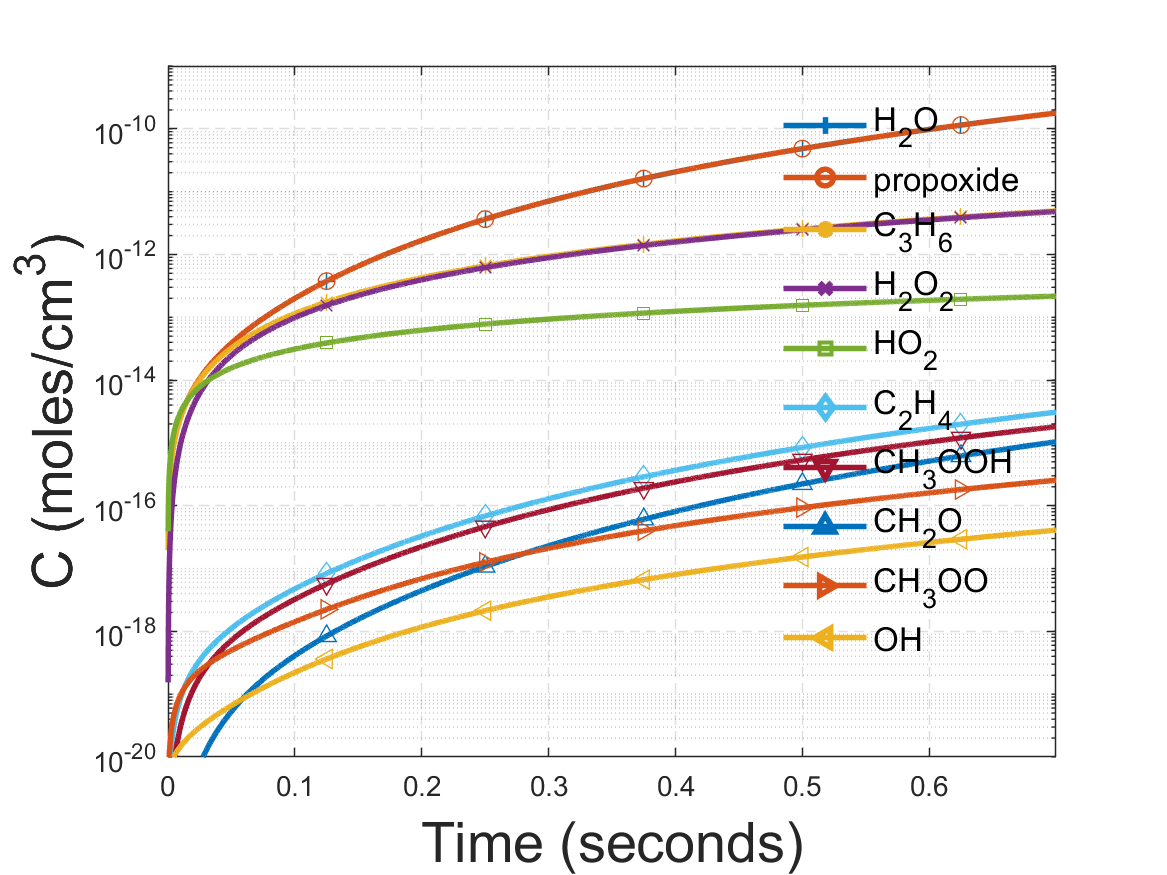
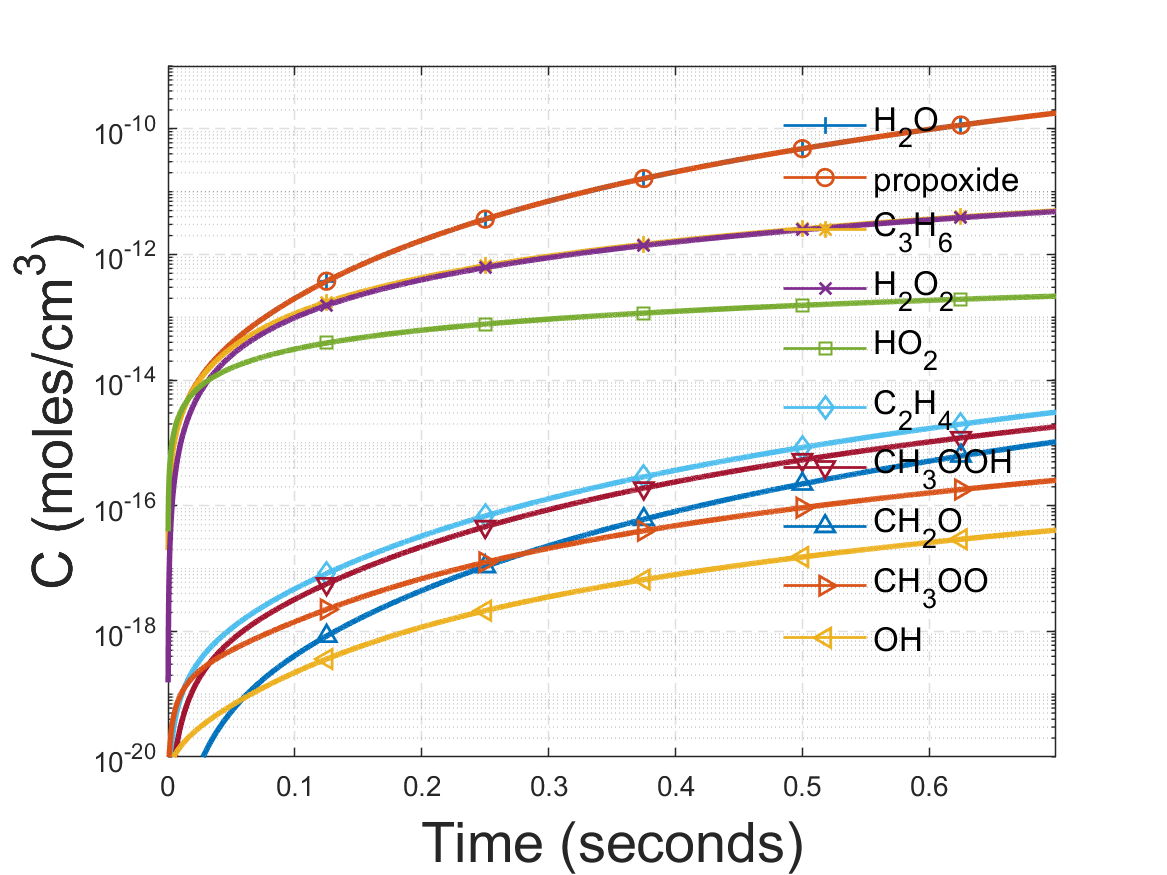
minor

diff --git a/theory/misc/trajectory/constant_volume_temperature/trajectory_cv_ct_top_N.m b/theory/misc/trajectory/constant_volume_temperature/trajectory_cv_ct_top_N.m
@@ -103,10 +103,11 @@ for idx=1:N
         'color', colors(mod(color_idx-1, length(colors))+ 1, :), ...
         'HandleVisibility','off'); hold on;
     scatter(time_vec(1:delta_n:end), conc_mat(1:delta_n:end, spe_idx), ...
+    'LineWidth', 1, ...
     'MarkerEdgeColor', colors(mod(color_idx-1, length(colors))+ 1, :), ...
     'marker', markers{1, mod(marker_idx-1, length(markers))+ 1}, ...
     'HandleVisibility','off'); hold on;
-    plot(nan, nan, 'LineWidth', 2, 'LineStyle', '-', ...
+    plot(nan, nan, 'LineWidth', 1, 'LineStyle', '-', ...
     'color', colors(mod(color_idx-1, length(colors))+ 1, :), ...
     'marker', markers{1, mod(marker_idx-1, length(markers))+ 1});
     
